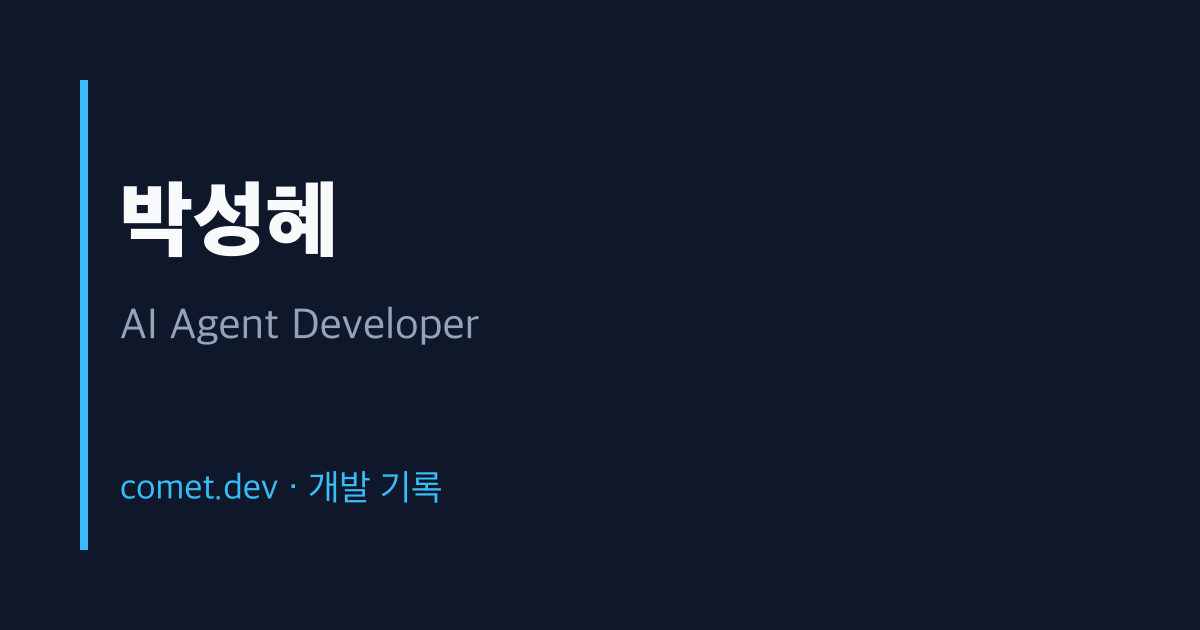
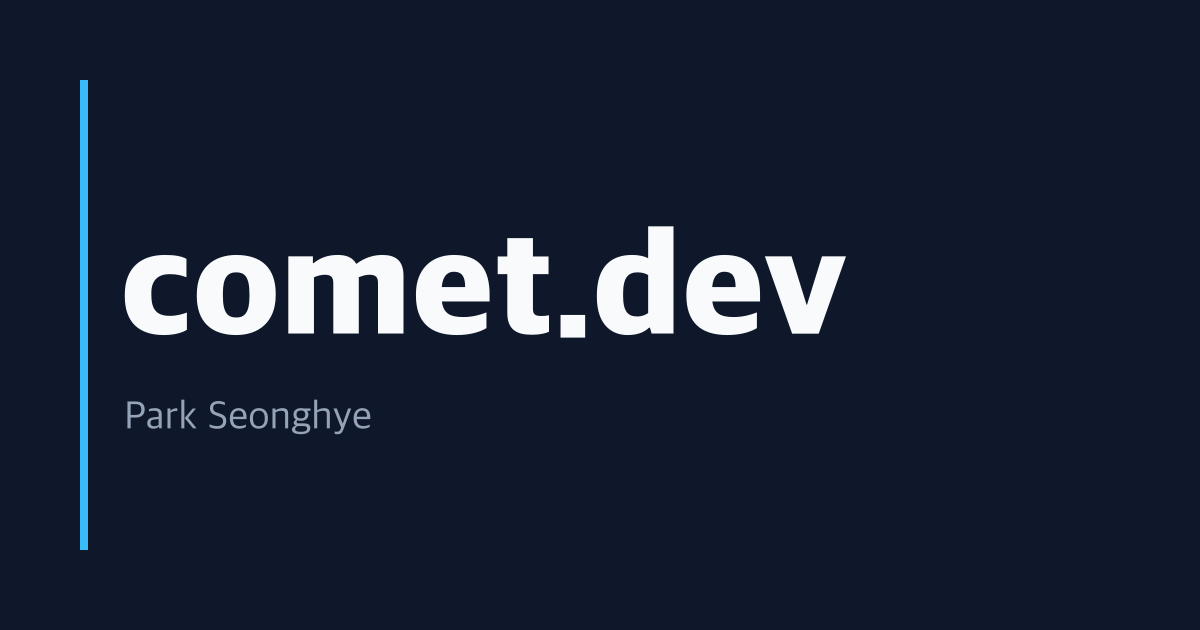
feat(blog): redesign default og image with comet.dev wordmark

Changed region(s): [[0.0925, 0.2714, 0.7092, 0.5429], [0.0925, 0.754, 0.37, 0.8143], [0.0925, 0.6333, 0.3083, 0.6937]]

diff --git a/src/lib/site.ts b/src/lib/site.ts
@@ -4,4 +4,4 @@ export const AUTHOR = '박성혜'
 
 export const postUrl = (slug: string) => `${SITE_URL}/blog/${slug}/`
 export const postDate = (date: string) => `${date}T00:00:00+09:00`
-export const OG_IMAGE = { url: '/og-default.png', width: 1200, height: 630, alt: `${AUTHOR} — AI Agent Developer` }
+export const OG_IMAGE = { url: '/og-default.png', width: 1200, height: 630, alt: `${SITE_NAME} — ${AUTHOR}` }
